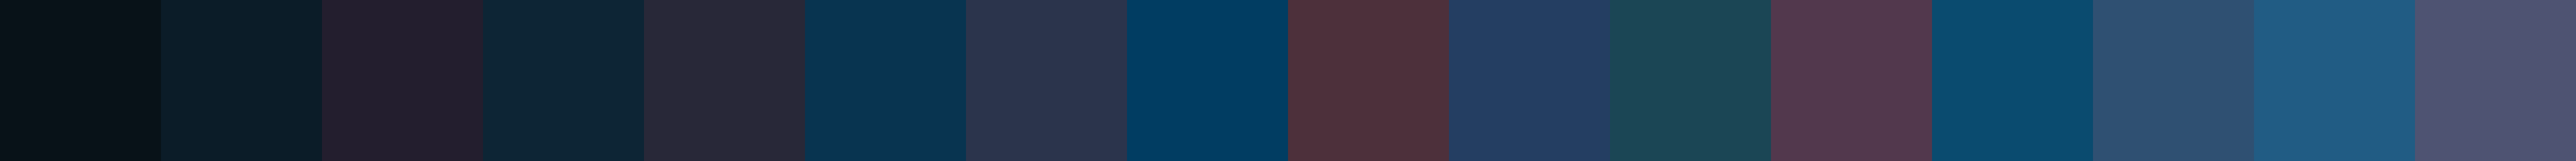
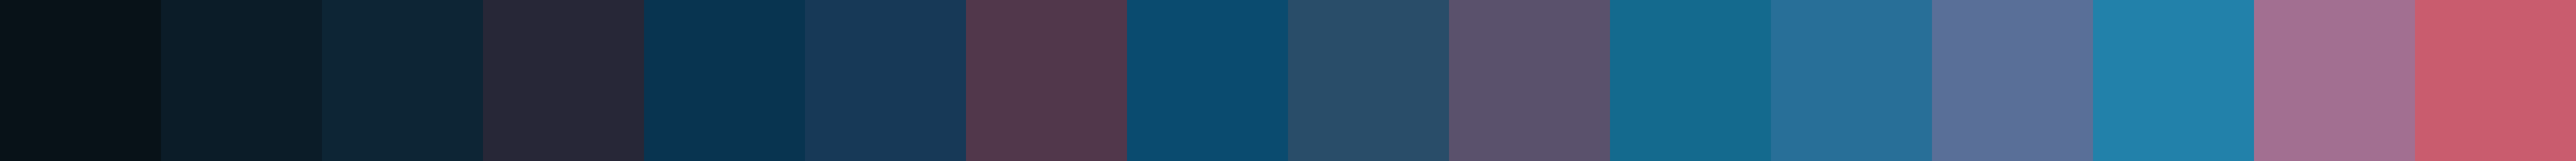
fix(backends): fixed wal backend

diff --git a/src/backends/wal.rs b/src/backends/wal.rs
@@ -5,11 +5,26 @@ use super::{Backend, Color, WalBackend};
 impl Backend for WalBackend {
     fn generate_colors(&self, path: &Path, colors: usize) -> HashSet<Color> {
         let magick_command = "magick";
-        WalBackend::imagemagick(
-            16 + i32::try_from(colors).expect("colors number bigger than u32 range"),
-            path,
-            magick_command,
-        )
+        let mut raw_colors: HashSet<Color> = HashSet::default();
+
+        for i in 0..20 {
+            raw_colors = WalBackend::imagemagick(
+                i32::try_from(16 + i).expect("colors number bigger than u32 range"),
+                path,
+                magick_command,
+            );
+            if raw_colors.len() > colors {
+                break;
+            };
+            if i == 19 {
+                println!("Imagemagick couldn't generate a suitable palette.");
+            } else {
+                println!("Imagemagick couldn't generate a palette.");
+                println!("Trying a larger palette size {}", 16 + i);
+            }
+        }
+
+        return raw_colors;
     }
 }
 

diff --git a/src/main.rs b/src/main.rs
@@ -55,8 +55,8 @@ fn main() {
         let home_path = PathBuf::from(&home_env);
         templates_dir = home_path.clone();
         cache_dir = home_path.clone();
-        templates_dir.push("/.config/rwal/templates");
-        cache_dir.push("/.cache/rwal/");
+        templates_dir.push(".config/rwal/templates");
+        cache_dir.push(".cache/rwal/");
         if let Some(d) = &arguments.templates_dir {
             templates_dir = PathBuf::from(d);
         };

diff --git a/README.md b/README.md
@@ -24,7 +24,7 @@ I'm learning rust, so any criticism/PRs are welcome.
 
 `-b, --backend <BACKEND>` currently there are 3 backends available: wal (imagemagick), modified median-cut and simple.  
 `simple` is useless. It was implemented just for initial testing. May be removed later.  
-`wal` is wal. Code initially was stolen from rswal, another pywal rust port.  
+`wal` is wal without post processing (should be named magick i guess). Code initially was stolen from rswal, another pywal rust port.  
 `median-cut` is median-cut but with different logic for selecting buckets to cut (not a proven-good-algorithm, just my experiments and whiteboarding.)
 
 `-p, --patterns <PATTERNS>` these determine in which order final colors will be represented.  
